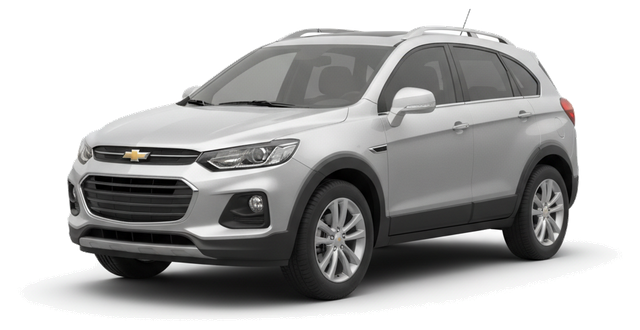
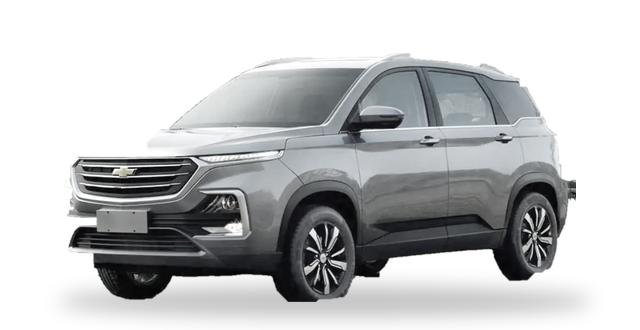
style(flota): render de la Chevrolet Captiva con el modelo que se vende en Colombia
Claude-Session: https://claude.ai/code/session_01SU8rdiv1SZEPY28cgwHKme

diff --git a/src/lib/fleetPhotos.js b/src/lib/fleetPhotos.js
@@ -8,7 +8,8 @@ import jacT8 from '../assets/vehicles/fleet/jac-t8.png'
 import kangoo from '../assets/vehicles/fleet/kangoo.png'
 import oroch from '../assets/vehicles/fleet/oroch.png'
 
-// Render real por placa para los 24 vehículos del seed original (mismo modelo real =
+// Render real por placa para los 24 vehículos del seed original (captiva.png: la Captiva que se vende en
+// Colombia, recortada de la foto que mandó Alejo) (mismo modelo real =
 // misma imagen, para no pagar generaciones repetidas de un carro pixel-idéntico).
 // Vehículo nuevo que no esté aquí simplemente no tiene entrada — VehiclePhoto cae al
 // ícono genérico por tipo.
